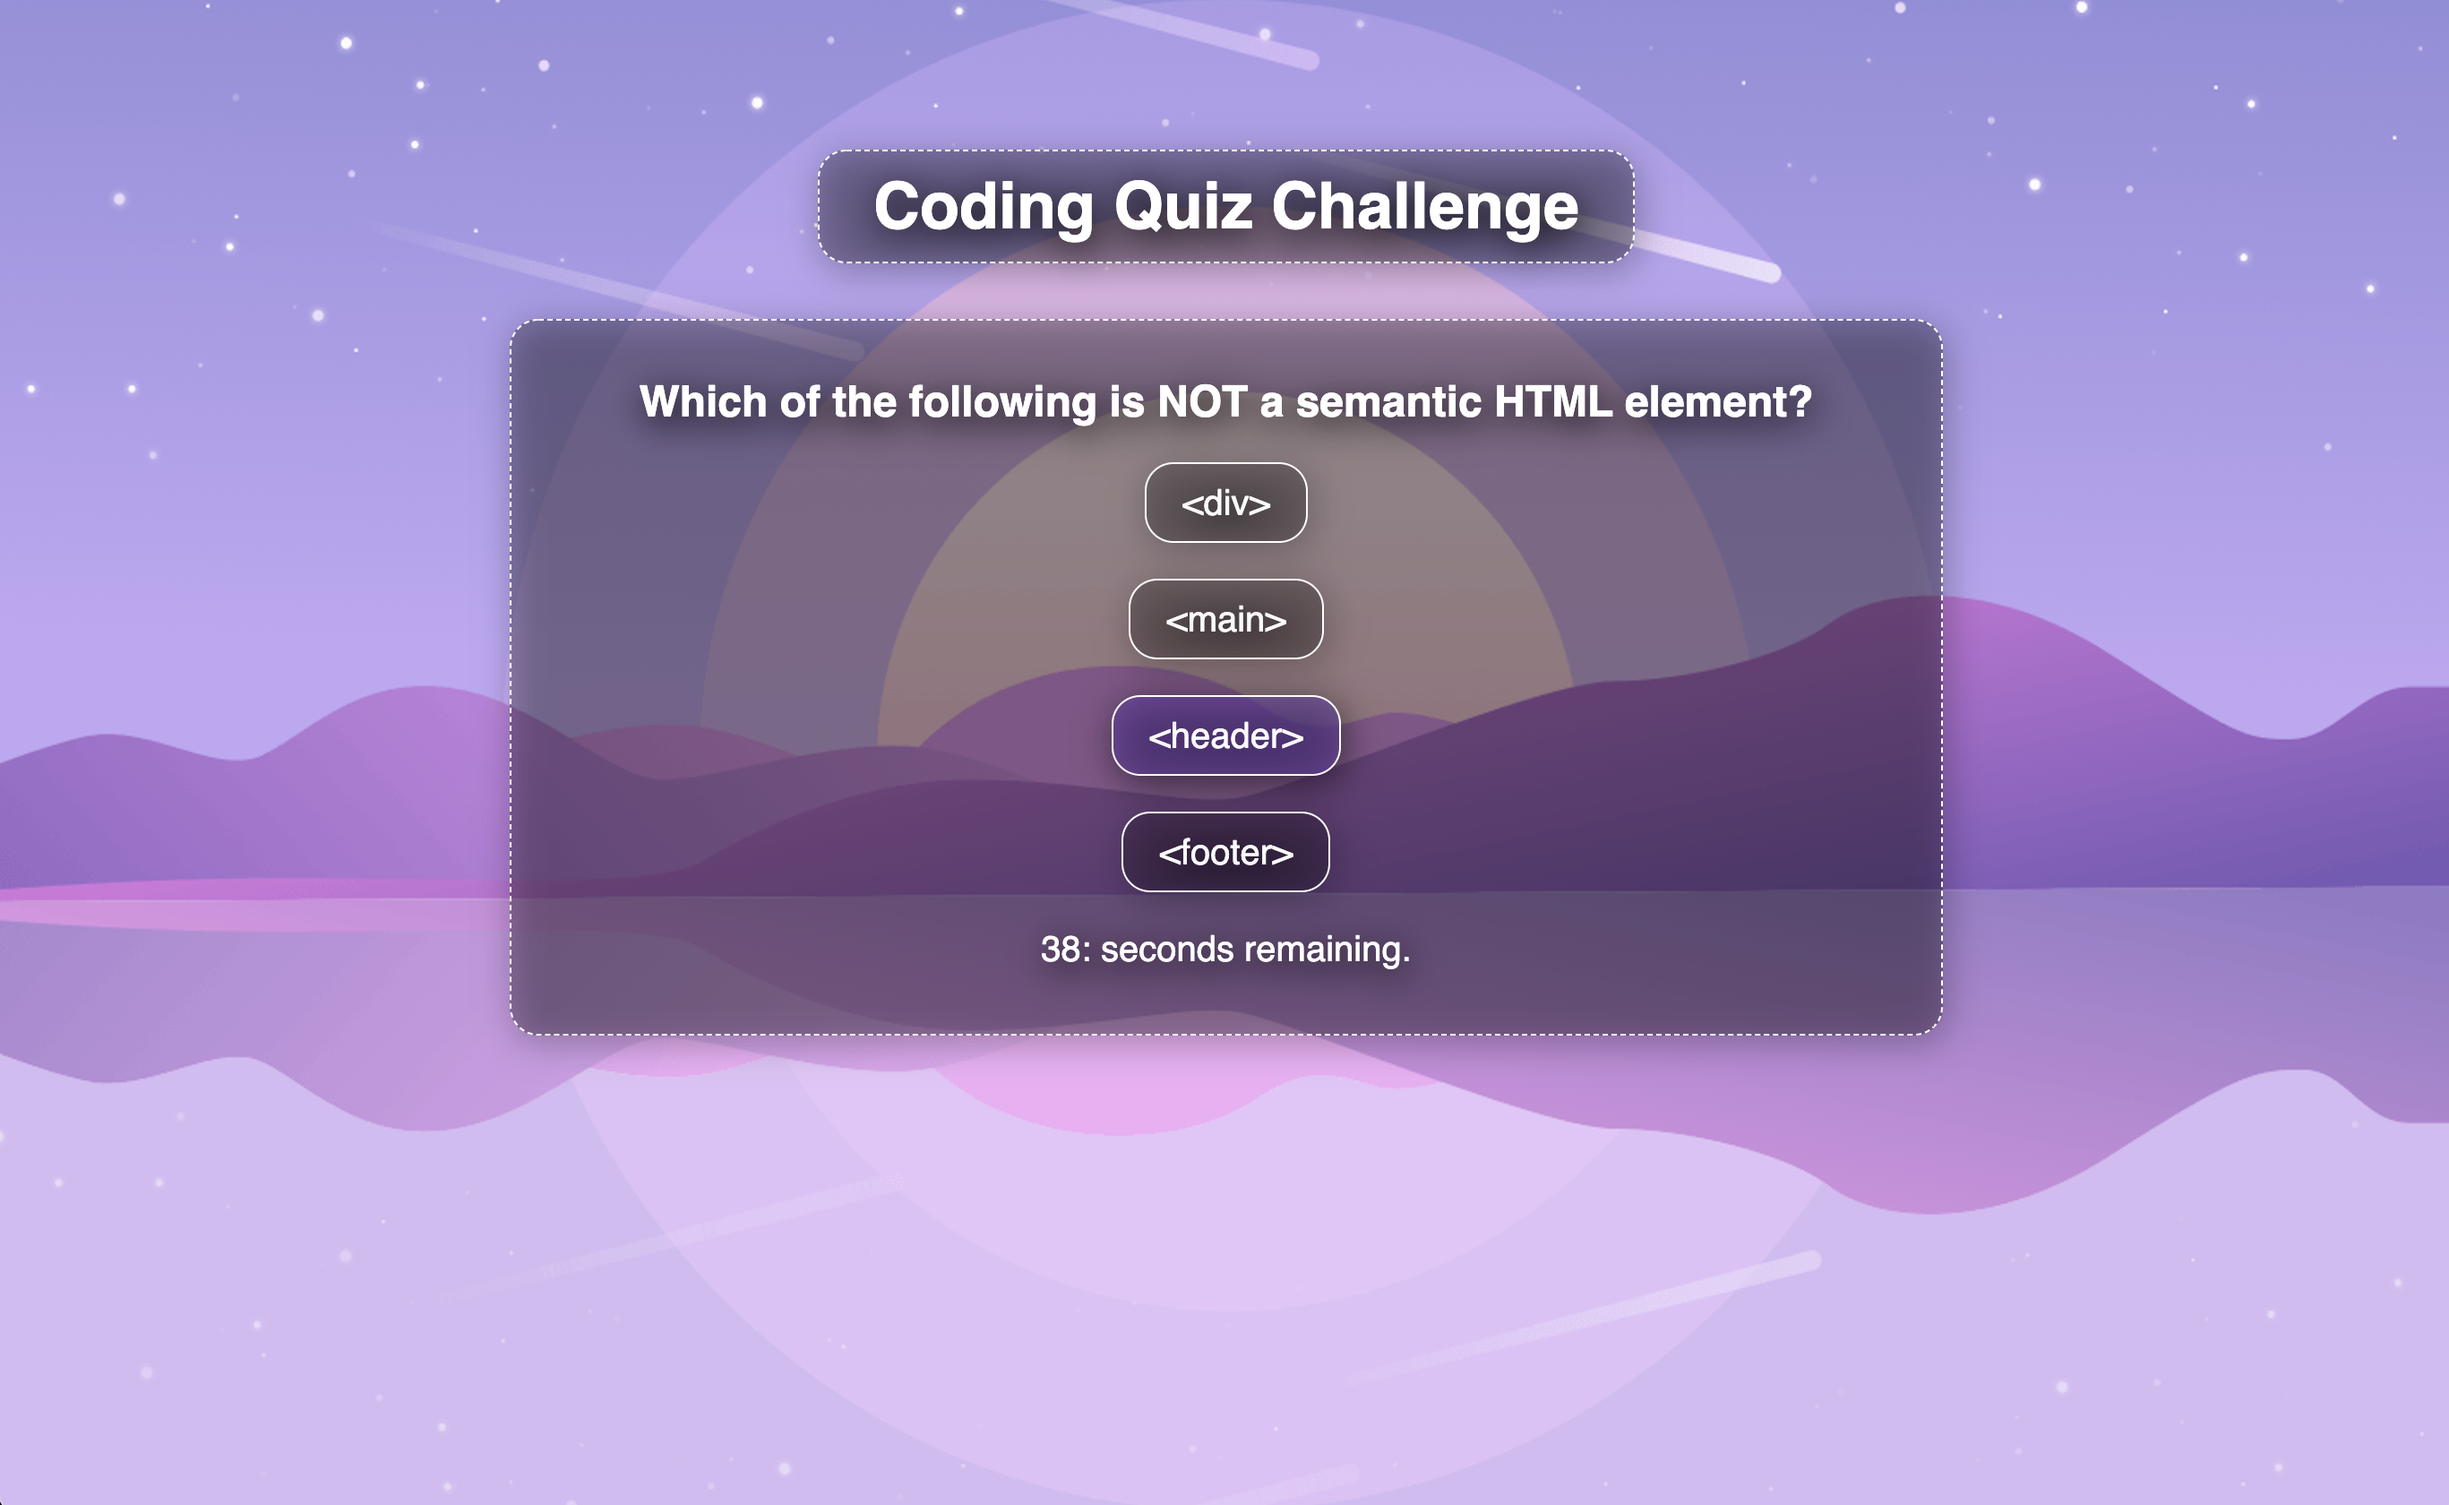
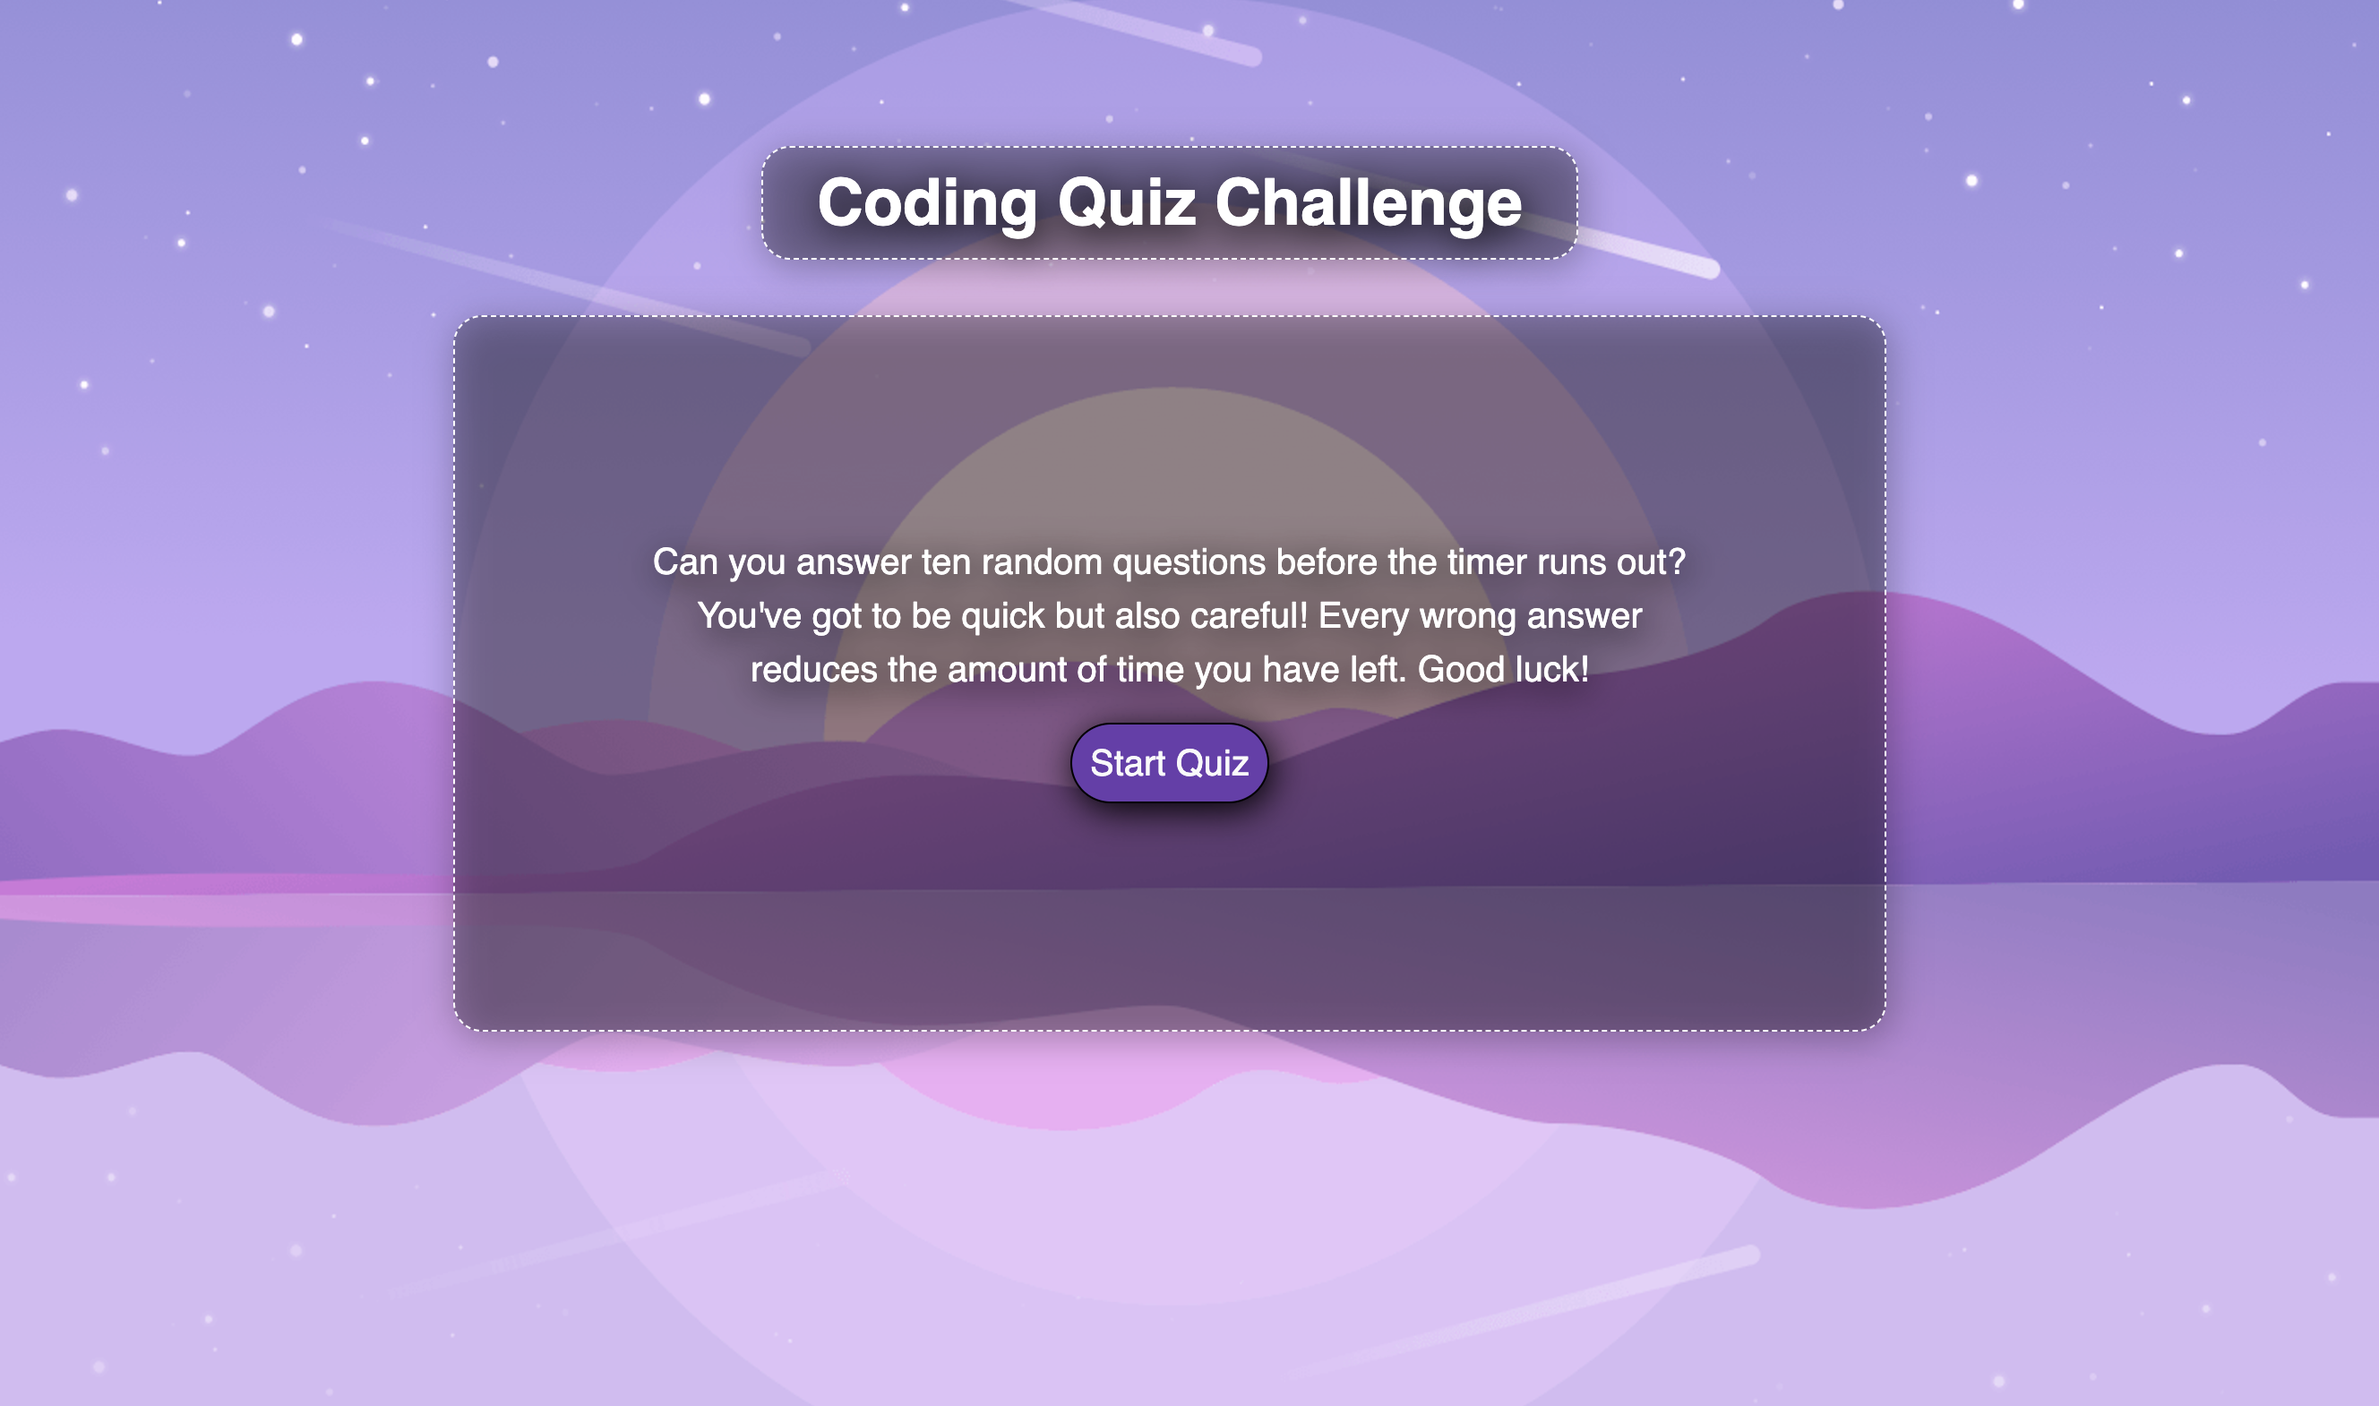
Updated Coding Quiz page

Changed region(s): [[0.0, 0.0936, 1.0, 0.8739], [0.7812, 0.5618, 1.0, 0.6554], [0.5, 0.0, 0.5312, 0.0624]]

diff --git a/coding-quiz.html b/coding-quiz.html
@@ -85,15 +85,15 @@
               <div class="swiper-wrapper align-items-center">
 
                 <div class="swiper-slide">
-                  <img src="assets/img/portfolio-details-1.jpg" alt="">
+                  <img src="./assets/img/project-img/coding-quiz.png" alt="">
                 </div>
 
                 <div class="swiper-slide">
-                  <img src="assets/img/portfolio-details-2.jpg" alt="">
+                  <img src="./assets/img/project-img/coding-quiz-2.png" alt="">
                 </div>
 
                 <div class="swiper-slide">
-                  <img src="assets/img/portfolio-details-3.jpg" alt="">
+                  <img src="./assets/img/project-img/coding-quiz-3.png" alt="">
                 </div>
 
               </div>
@@ -105,21 +105,24 @@
             <div class="portfolio-info">
               <h3>Project information</h3>
               <ul>
-                <li><strong>Category</strong>: Web design</li>
-                <li><strong>Client</strong>: ASU Company</li>
-                <li><strong>Project date</strong>: 01 March, 2020</li>
-                <li><strong>Technologies</strong>: 01 March, 2020</li>
-                <li><strong>Deployed Project</strong>: <a href="#">www.example.com</a></li>
-                <li><strong>Source code</strong>: <a href="#">www.example.com</a></li>
+                <li><strong>Category</strong>: Front-End</li>
+                <li><strong>Project date</strong>: June 2022</li>
+                <li><strong>Technologies</strong>: JavaScript, CSS, localStorage</li>
+                <li><strong>Deployed Project</strong>: <a
+                    href="https://tonyq032.github.io/Coding-Quiz/">https://tonyq032.github.io/Coding-Quiz/</a></li>
+                <li><strong>Source code</strong>: <a
+                    href="https://github.com/TonyQ032/Coding-Quiz">https://github.com/TonyQ032/Coding-Quiz</a></li>
               </ul>
             </div>
             <div class="portfolio-description">
               <h2>This is an example of portfolio detail</h2>
               <p>
-                Autem ipsum nam porro corporis rerum. Quis eos dolorem eos itaque inventore commodi labore quia quia.
-                Exercitationem repudiandae officiis neque suscipit non officia eaque itaque enim. Voluptatem officia
-                accusantium nesciunt est omnis tempora consectetur dignissimos. Sequi nulla at esse enim cum deserunt
-                eius.
+                A simple interactive, coding-themed, quiz that tests the user's basic coding knowledge.
+              </p>
+              <p>
+                The user has 60 seconds to answer as many randomized questions as possible but will lose 10 seconds if
+                they select an incorrect answer. The user can then save their high score (stored to localStorage) and
+                try again.
               </p>
             </div>
           </div>
